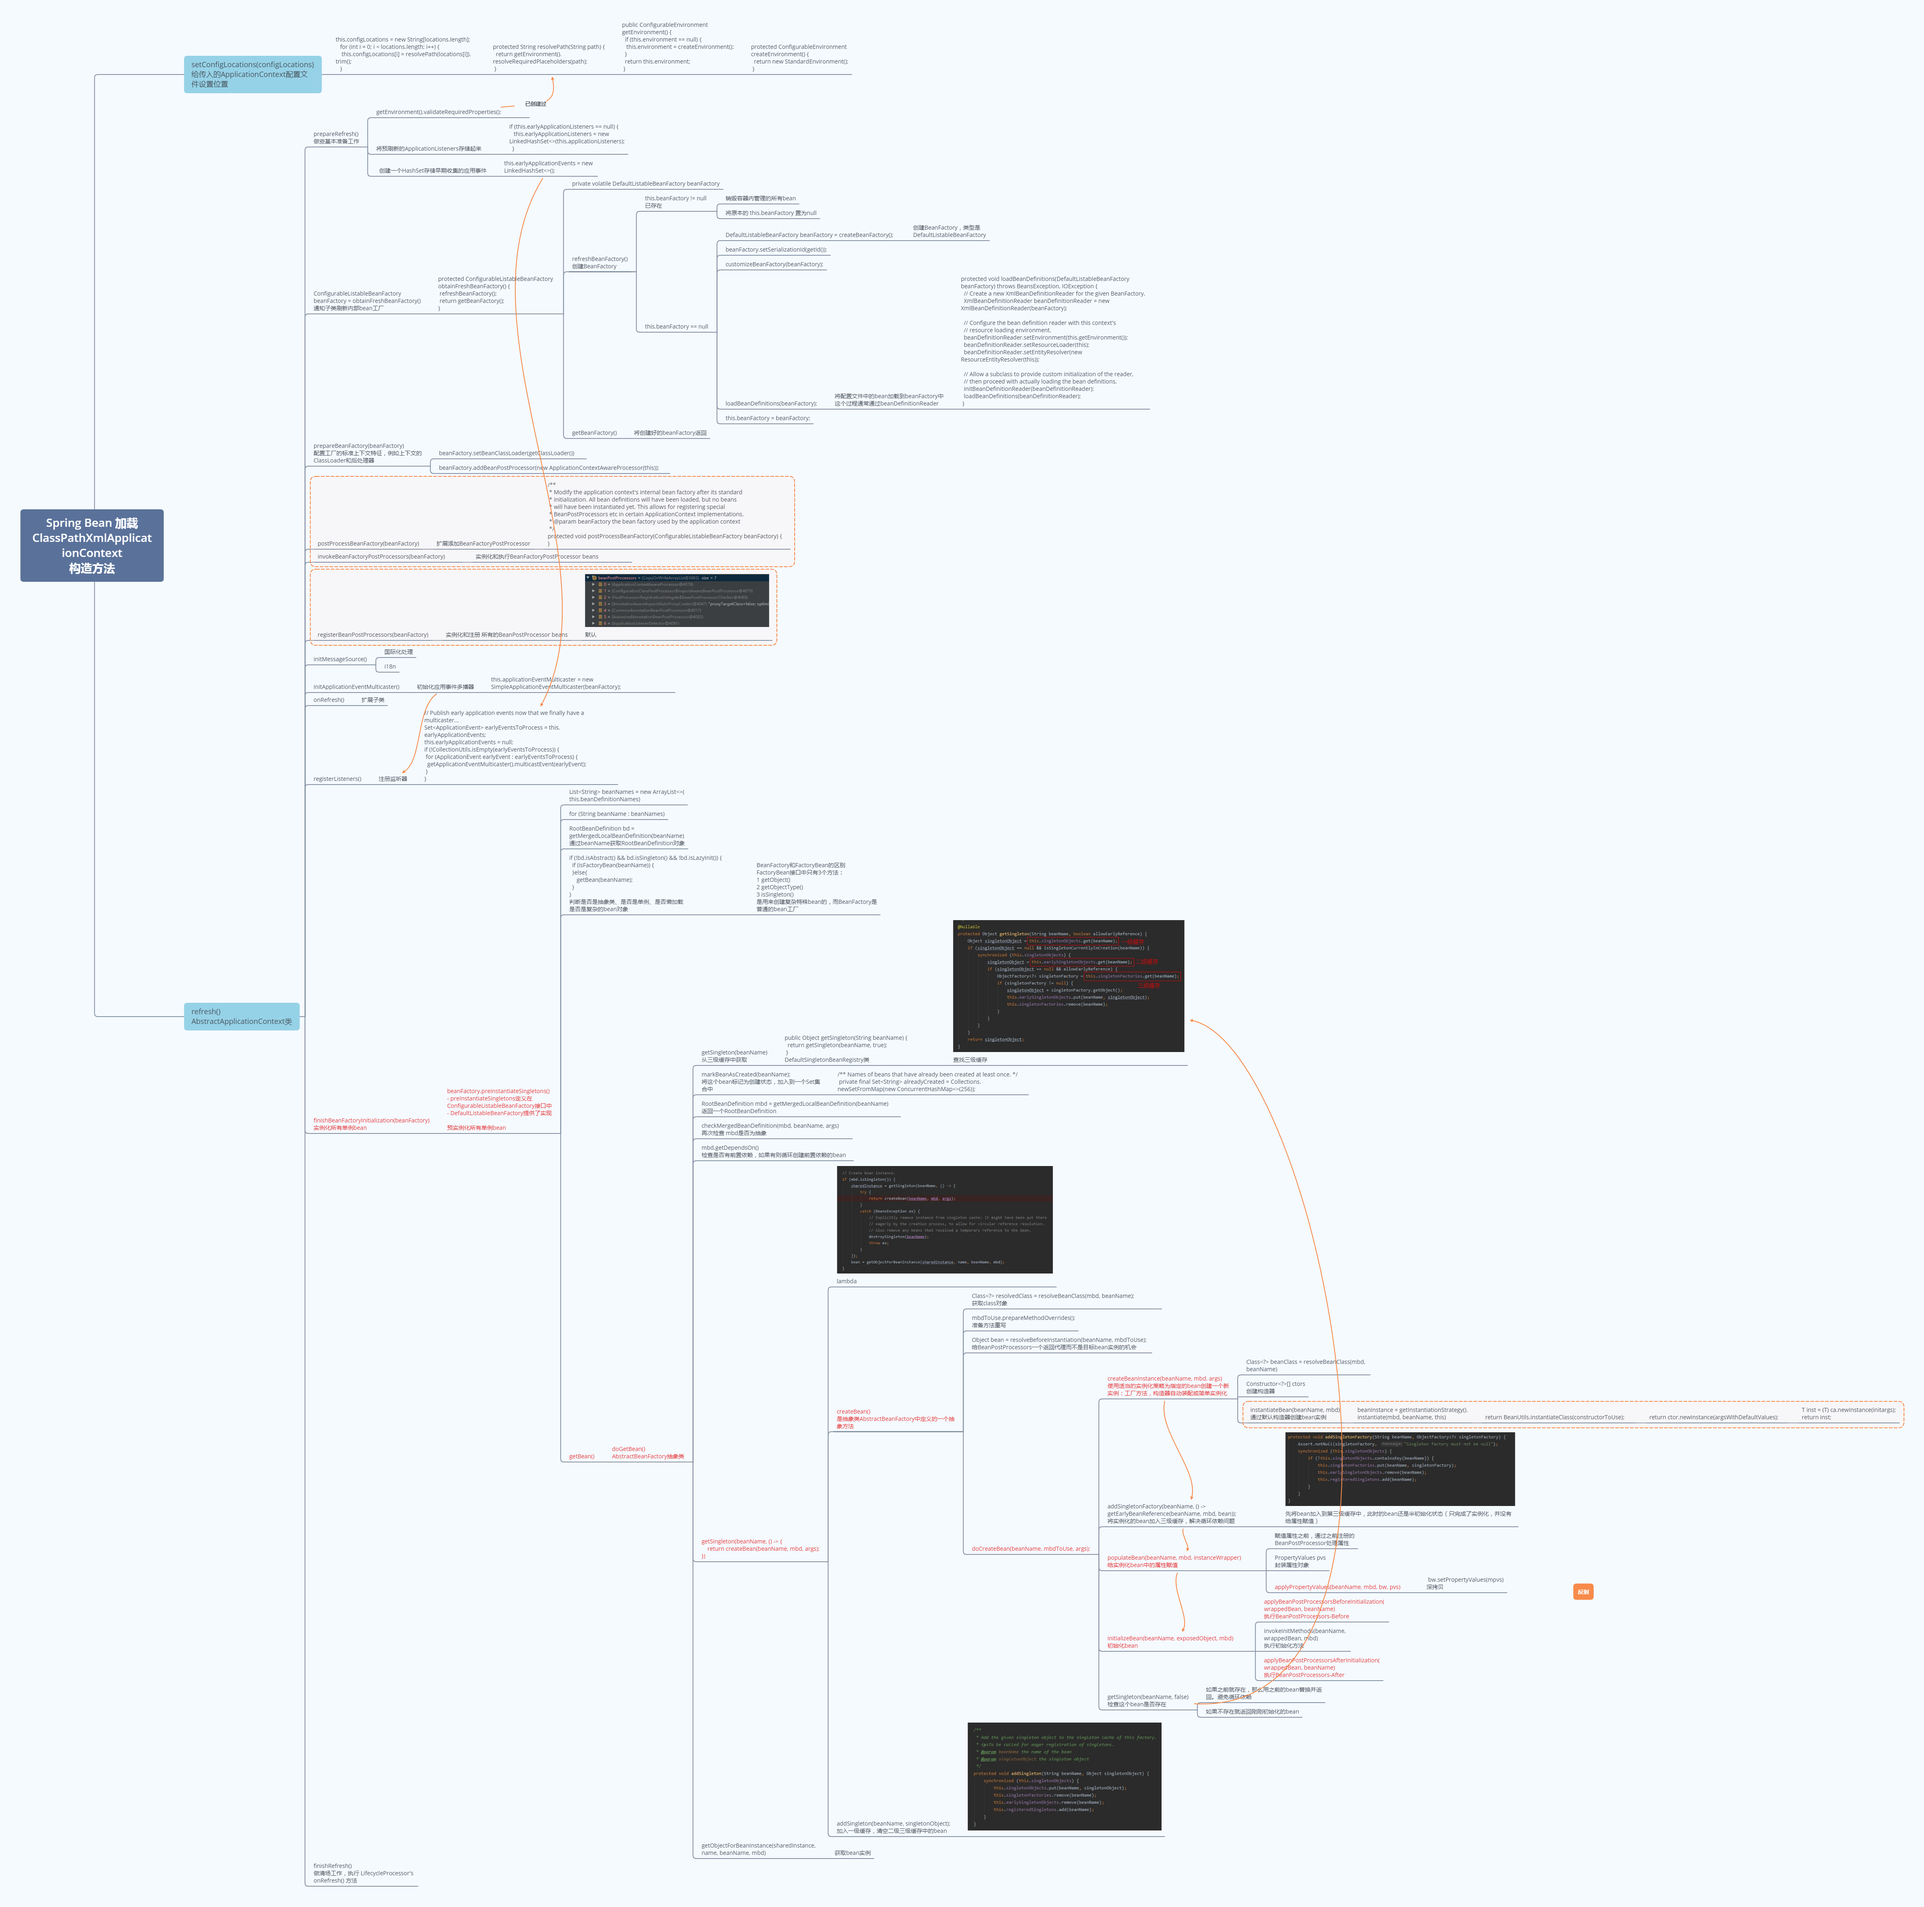
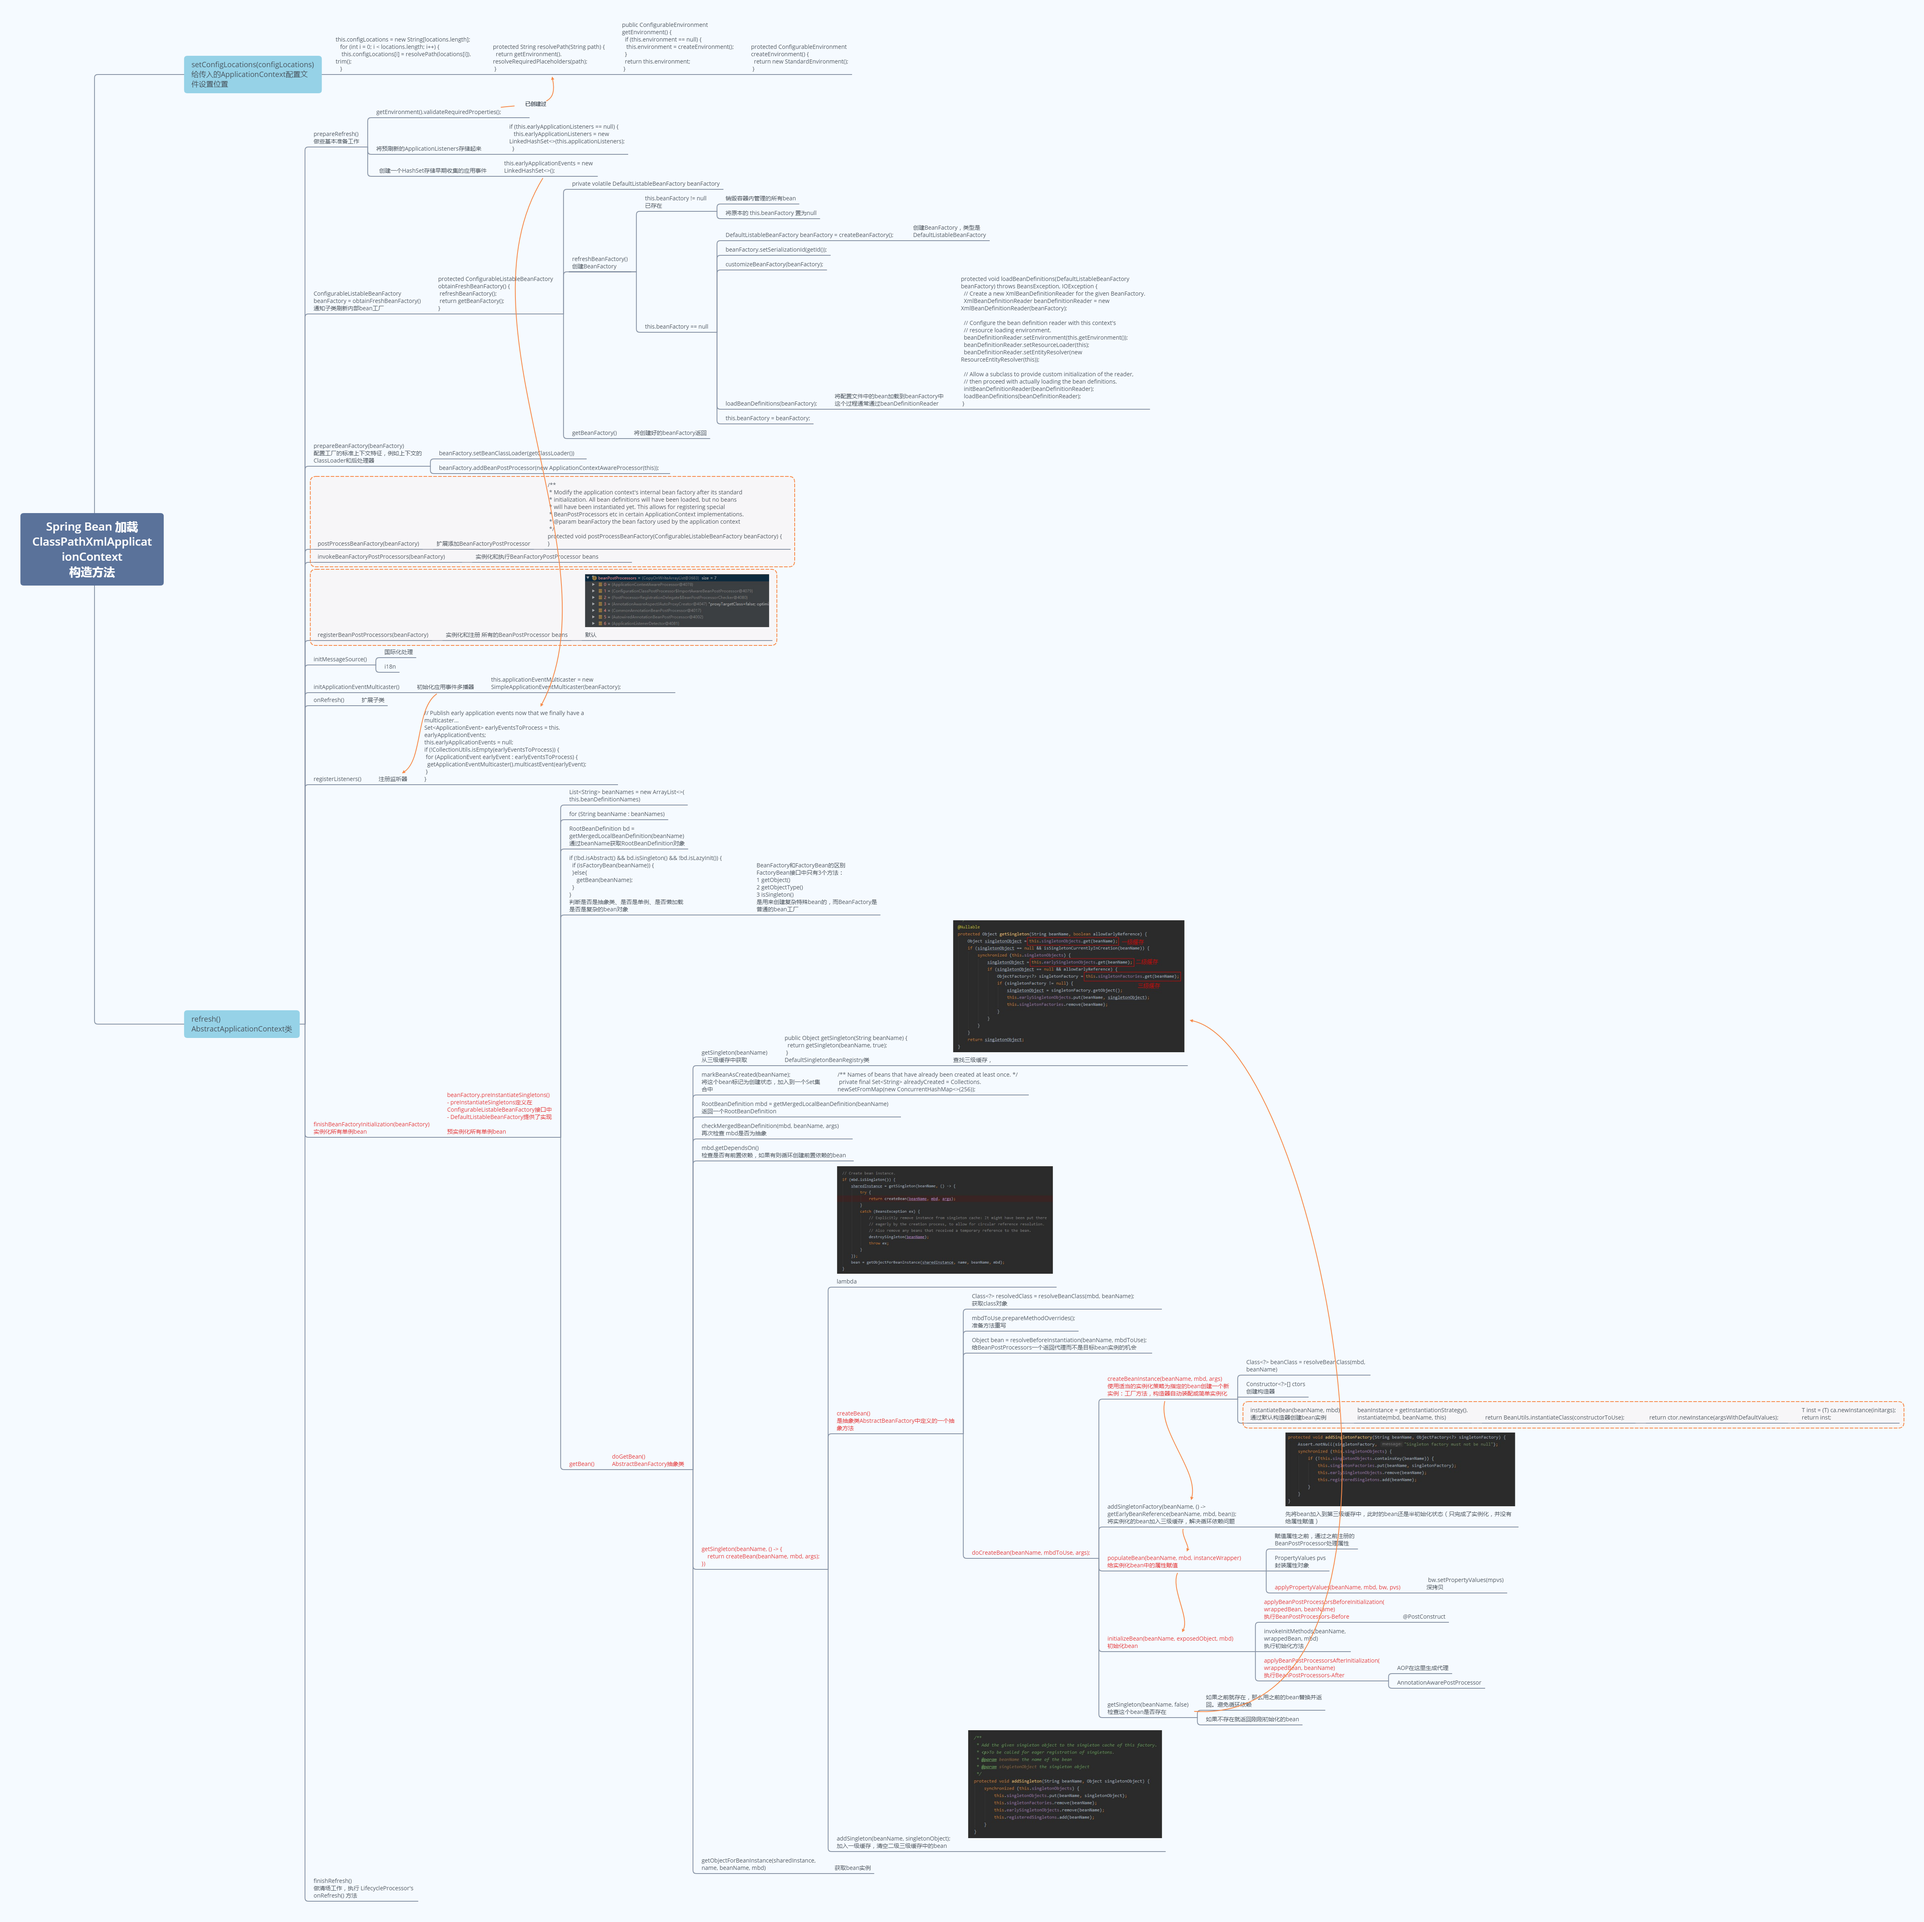
20210127

diff --git a/Spring_xmind/README.md b/Spring_xmind/README.md
@@ -1,3 +1,5 @@
 #### Spring Bean 加载
 
-![Redis](https://github.com/YorickYu/JPP/blob/main/Spring_xmind/SpringBean.png)
+更新2021-1-27：补充生命周期AOP处理 及 singletonFactories 说明
+
+![Spring](https://github.com/YorickYu/JPP/blob/main/Spring_xmind/SpringBean.png)
